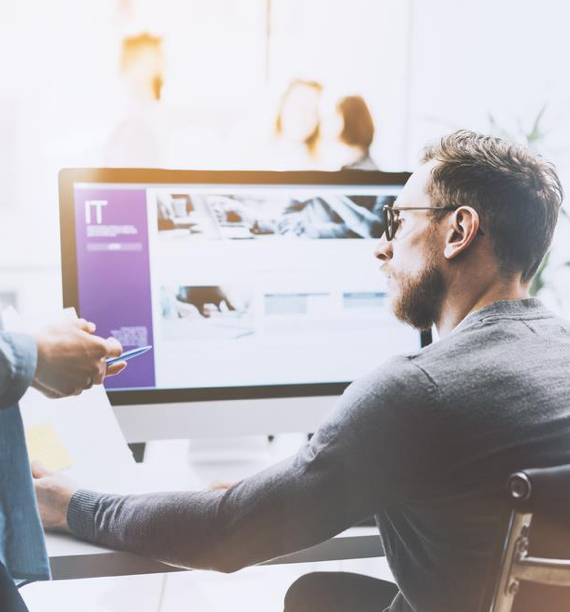
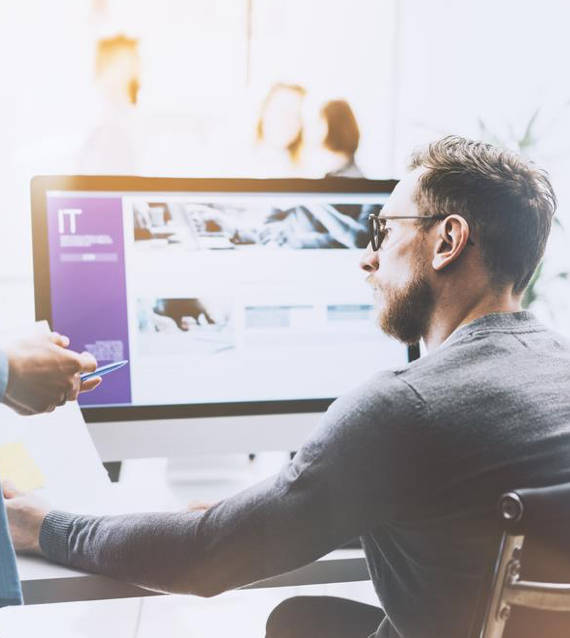
style bloc location in homepage

diff --git a/ecoleinfographie/resources/views/pages/home.blade.php b/ecoleinfographie/resources/views/pages/home.blade.php
@@ -19,27 +19,67 @@
                 </li>
             </ul>
         </div>
-        <img class="intro__img" src="../img/image-infographiste.jpg" width="570" height="612" alt="Une homme à lunettes assis sur son bureau qui est entrain de lire une feuille qu’il tient dans sa main gauche en étant face à son ordinateur">
+        <img class="intro__img" src="../img/image-infographiste.jpg" width="570" height="638" alt="Une homme à lunettes assis sur son bureau qui est entrain de lire une feuille qu’il tient dans sa main gauche en étant face à son ordinateur">
     </section>
     <section class="location">
-        <h2 aria-level="2" role="heading" class="location__title">Notre Situation</h2>
-        <div class="location__address-wrapper">
-            <address class="location__address">
-                Rue Peetermans, 80<br />
-                4100 - Seraing<br />
-                Belgique
-            </address>
-            <a href="#map" class="location__link" rel="external">Voir sur la carte</a>
-        </div>
-        <div class="location__coordinates">
-            <a href="tel:085121899" class="location__tel">085 12 18 99</a>
-            <a href="#contact" class="location__mail">Nous contacter</a>
-            <div class="location__social">
-                <a href="#facebook" rel="external" class="location__social-facebook"><span>Facebook</span></a>
-                <a href="#twitter" rel="external" class="location__social-twitter"><span>Twitter</span></a>
-                <a href="#pinterest" rel="external" class="location__social-pinterest"><span>Pinterest</span></a>
-                <a href="#behance" rel="external" class="location__social-behance"><span>Behance</span></a>
-                <a href="#dribble" rel="external" class="location__social-dribble"><span>Dribble</span></a>
+        <div class="location__wrapper">
+            <h2 aria-level="2" role="heading" class="location__title">Notre situation</h2>
+            <div class="location__address-wrapper">
+                <address class="location__address">
+                    Rue Peetermans, 80<br />
+                    4100 - Seraing<br />
+                    Belgique
+                </address>
+                <a href="#map" class="location__link" rel="external">Voir sur la carte</a>
+            </div>
+            <div class="location__coordinates">
+                <a href="tel:085121899" class="location__tel">085 12 18 99</a>
+                <a href="#contact" class="location__mail">Nous contacter</a>
+                <div class="location__social">
+                    <a href="#facebook" rel="external" class="location__social-link location__social-facebook">
+                        <svg xmlns="http://www.w3.org/2000/svg" width="35" height="35">
+                            <circle stroke="#FFF" stroke-width="2" fill="none" cx="17.5" cy="17.5" r="15.5"/>
+                            <circle class="circle-hover" fill="#FFF" cy=".01" r=".5" transform="translate(17.5 17.5)"/>
+                            <path fill="#FFF" d="M21 12.6h-2.3c-.26 0-.56.38-.56.87v1.72H21l-.43 2.43h-2.43V25h-2.7v-7.36H13V15.2h2.45v-1.45c0-2.07 1.37-3.75 3.26-3.75H21v2.6zm0 0"/>
+                        </svg>
+                        <span>Vers Facebook</span>
+                    </a>
+                    <a href="#twitter" rel="external" class="location__social-link location__social-twitter">
+                        <svg xmlns="http://www.w3.org/2000/svg" width="35" height="35">
+                            <circle stroke="#FFF" stroke-width="2" fill="none" cx="17.5" cy="17.5" r="15.5"/>
+                            <circle class="circle-hover" fill="#FFF" r=".5" transform="translate(17.5 17.5)"/>
+                            <path fill="#FFF" d="M23.8 14.7v.4c0 4.03-3.06 8.68-8.67 8.68-1.73 0-3.33-.5-4.68-1.37.24.05.48.06.73.06 1.43 0 2.74-.5 3.8-1.3-1.35-.03-2.47-.92-2.86-2.13.18.04.37.06.57.06.26 0 .53-.05.8-.1-1.4-.3-2.47-1.54-2.47-3v-.05c.42.23.9.37 1.4.38-.83-.55-1.37-1.48-1.37-2.54 0-.57.15-1.1.4-1.55 1.52 1.85 3.77 3.06 6.3 3.2-.05-.23-.07-.46-.07-.7 0-1.7 1.35-3.06 3.04-3.06.88 0 1.67.37 2.23.96.7-.14 1.35-.4 1.94-.74-.22.72-.7 1.32-1.34 1.7.62-.08 1.2-.24 1.76-.48-.4.6-.93 1.15-1.53 1.58zm0 0"/>
+                        </svg>
+                        <span>Vers Twitter</span>
+                    </a>
+                    <a href="#pinterest" rel="external" class="location__social-link location__social-pinterest">
+                        <svg xmlns="http://www.w3.org/2000/svg" width="35" height="35">
+                            <circle stroke="#FFF" stroke-width="2" fill="none" cx="17.5" cy="17.5" r="15.5"/>
+                            <circle class="circle-hover" fill="#FFF" cy=".01" r=".5" transform="translate(17.5 17.5)"/>
+                            <path fill="#FFF" d="M18.56 21.17c-1-.07-1.4-.57-2.2-1.04-.42 2.25-.94 4.4-2.5 5.53-.47-3.4.7-5.95 1.26-8.65-.93-1.56.1-4.72 2.08-3.95 2.43.97-2.1 5.86.94 6.47 3.18.64 4.47-5.5 2.5-7.5-2.84-2.88-8.27-.06-7.6 4.07.16 1 1.2 1.3.4 2.7-1.8-.4-2.35-1.84-2.28-3.76.1-3.13 2.8-5.32 5.52-5.62 3.43-.38 6.65 1.25 7.1 4.48.5 3.64-1.56 7.58-5.22 7.3zm0 0"/>
+                        </svg>
+                        <span>Vers Pinterest</span>
+                    </a>
+                    <a href="#behance" rel="external" class="location__social-link location__social-behance">
+                        <svg xmlns="http://www.w3.org/2000/svg" width="35" height="35">
+                            <circle stroke="#FFF" stroke-width="2" fill="none" cx="17.5" cy="17.5" r="15.5"/>
+                            <circle class="circle-hover" fill="#FFF" cx="-0" cy=".01" r=".5" transform="translate(17.5 17.49)"/>
+                            <g fill="#FFF">
+                                <path d="M24.6 19.67h-5.14c.18.85.93 1.5 1.83 1.5.5 0 1-.27 1.4-.68l1.5.3c-.6 1.04-1.7 1.8-3 1.8-1.86 0-3.36-1.5-3.36-3.38 0-1.86 1.5-3.36 3.35-3.36s3.34 1.5 3.34 3.34c0 .13 0 .25-.04.37l.06.06zm-3.3-2.23c-.62 0-1.15.3-1.5.74h2.97c-.34-.45-.87-.74-1.48-.74zm0 0"/>
+                                <path d="M15.33 22.65h-4.85V13.7h4.47c1.24 0 2.24 1 2.24 2.25 0 .7-.4 1.3-.9 1.7.9.42 1.55 1.33 1.55 2.4 0 1.44-1.17 2.6-2.6 2.6h.02zm-1.12-3.72h-1.4v2.23h1.5c.6 0 1.1-.5 1.1-1.1 0-.63-.5-1.13-1.1-1.13h-.03zm.8-2.98c0-.4-.3-.75-.7-.75h-1.5v1.5h1.5c.4 0 .73-.34.73-.75zm4.5-2.25h3.7v1.5h-3.7"/>
+                            </g>
+                        </svg>
+                        <span>Vers Behance</span>
+                    </a>
+                    <a href="#dribble" rel="external" class="location__social-link location__social-dribble">
+                        <svg xmlns="http://www.w3.org/2000/svg" width="35" height="35">
+                            <circle stroke="#FFF" stroke-width="2" fill="none" cx="17.5" cy="17.5" r="15.5"/>
+                            <circle class="circle-hover" fill="#FFF" cy=".01" r=".5" transform="translate(17.5 17.5)"/>
+                            <path fill="#FFF" d="M17.5 25.08c-4.2 0-7.6-3.4-7.6-7.58 0-4.2 3.4-7.6 7.6-7.6 4.18 0 7.6 3.42 7.6 7.6s-3.42 7.58-7.6 7.58zM19 16l.38.86c.04.1.08.18.1.28.46-.06.94-.08 1.44-.08 1.38 0 2.52.2 2.9.28-.03-1.38-.52-2.7-1.37-3.78-.26.33-1.32 1.55-3.46 2.44zm.94 2.3c.76 2.1 1.1 3.82 1.2 4.38 1.37-.97 2.3-2.46 2.6-4.1-.28-.1-1.3-.36-2.57-.36-.42 0-.83.02-1.23.08zm-2.92-2.96c-.98-1.73-2-3.15-2.28-3.53-1.72.85-3 2.45-3.4 4.3.67 0 3-.05 5.68-.75zm4.6-2.64c-1.14-1-2.6-1.53-4.12-1.53-.46 0-.92.05-1.37.15.33.45 1.34 1.85 2.3 3.6 2.06-.8 3-1.95 3.2-2.22zm-7.96 9.83c1.1.85 2.44 1.3 3.84 1.3.83 0 1.65-.16 2.4-.48-.1-.6-.46-2.5-1.3-4.7-3.44 1.2-4.73 3.48-4.94 3.88zm4.26-5.06l.17-.05-.47-.94c-3.04.9-5.95.9-6.46.9v.12c0 1.53.54 3 1.54 4.14.34-.53 2.1-3.16 5.2-4.17zm0 0"/>
+                        </svg>
+                        <span>Vers Dribble</span>
+                    </a>
+                </div>
             </div>
         </div>
     </section>
